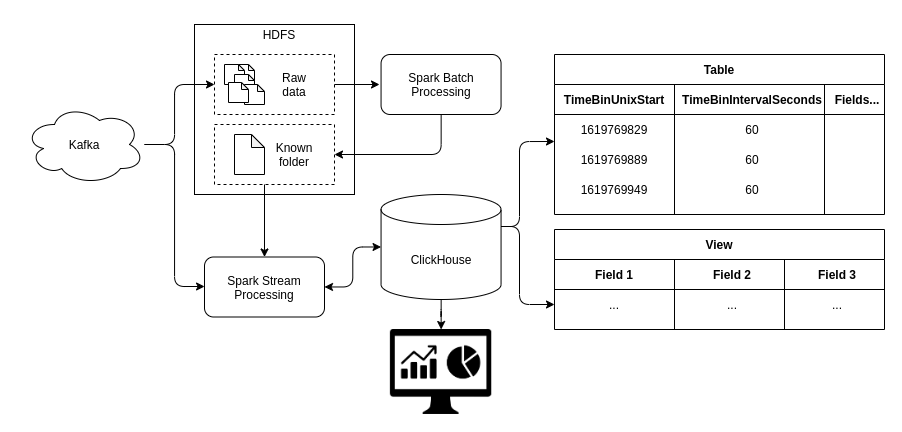
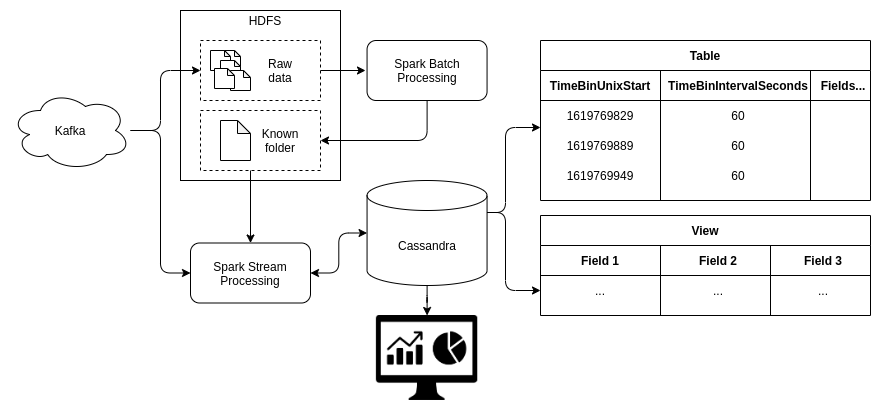
Use Cassandra instead of ClickHouse

diff --git a/README.md b/README.md
@@ -18,14 +18,12 @@ The architecture includes:
 
 - **Streaming Layer**: Apache Spark Streaming. Raw data from Kafka will be sent to this layer as a continuous stream and will be processed as minibatches. After process a minibatch, the layer will check if there are new data at the known folder in HDFS. If there are, the merging process will happen, that merges result data from Batch Layer, Streaming Layer and update the Serving Layer. This will ensure that the data in Serving Layer is eventually consistent.
 
-- **Serving Layer**: ClickHouse. Result data are stored in this layer. There will be some pre-computed view (that are called Materialized View in ClickHouse), that aggregates data when they are inserted to ClickHouse. These view will enhance the performance of queries. The dashboard application will get data from these view to visualize statistics. Admin can use ClickHouse client to query stats from ClickHouse directly.
+- **Serving Layer**: Cassandra. Result data are stored in this layer. There will be some pre-computed view (that are called Materialized View), that aggregates data when they are inserted to Cassandra. These view will enhance the performance of queries. The dashboard application will get data from these view to visualize statistics. Admin can use [Cassandra client](https://github.com/Kindrat/cassandra-client) to query stats from Cassandra directly.
 
 ### Flowchart
 
 Overall workflow of the system is described as follow:
 ![flowchart](./images/flowchart.png)
-
-### ClickHouse Model Design
 
 ## Performance Testing
 
